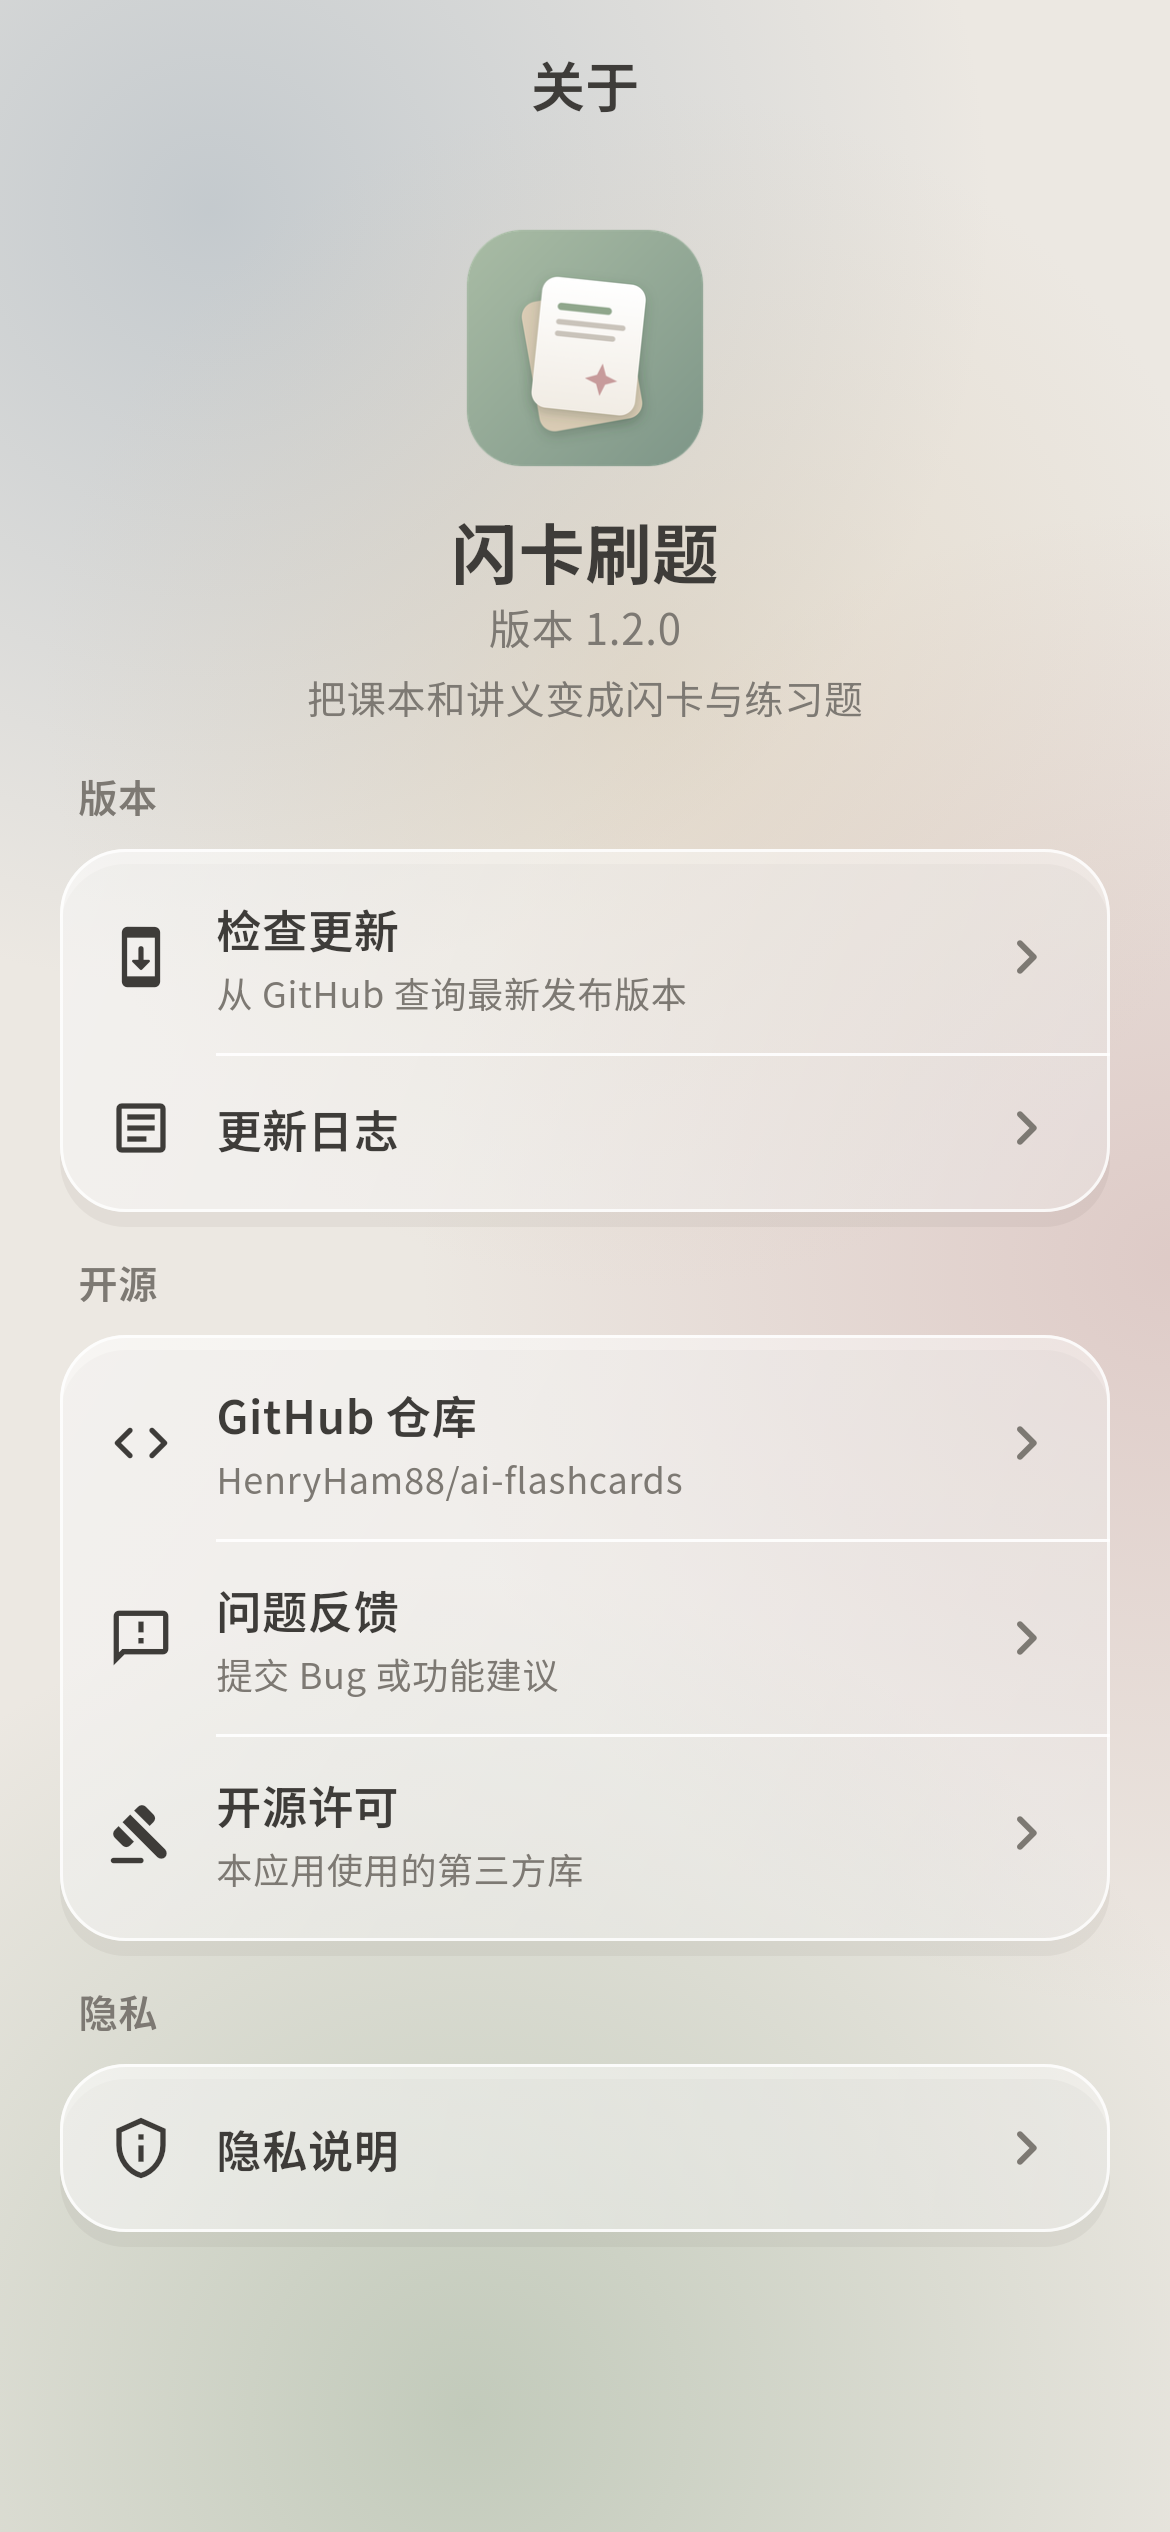
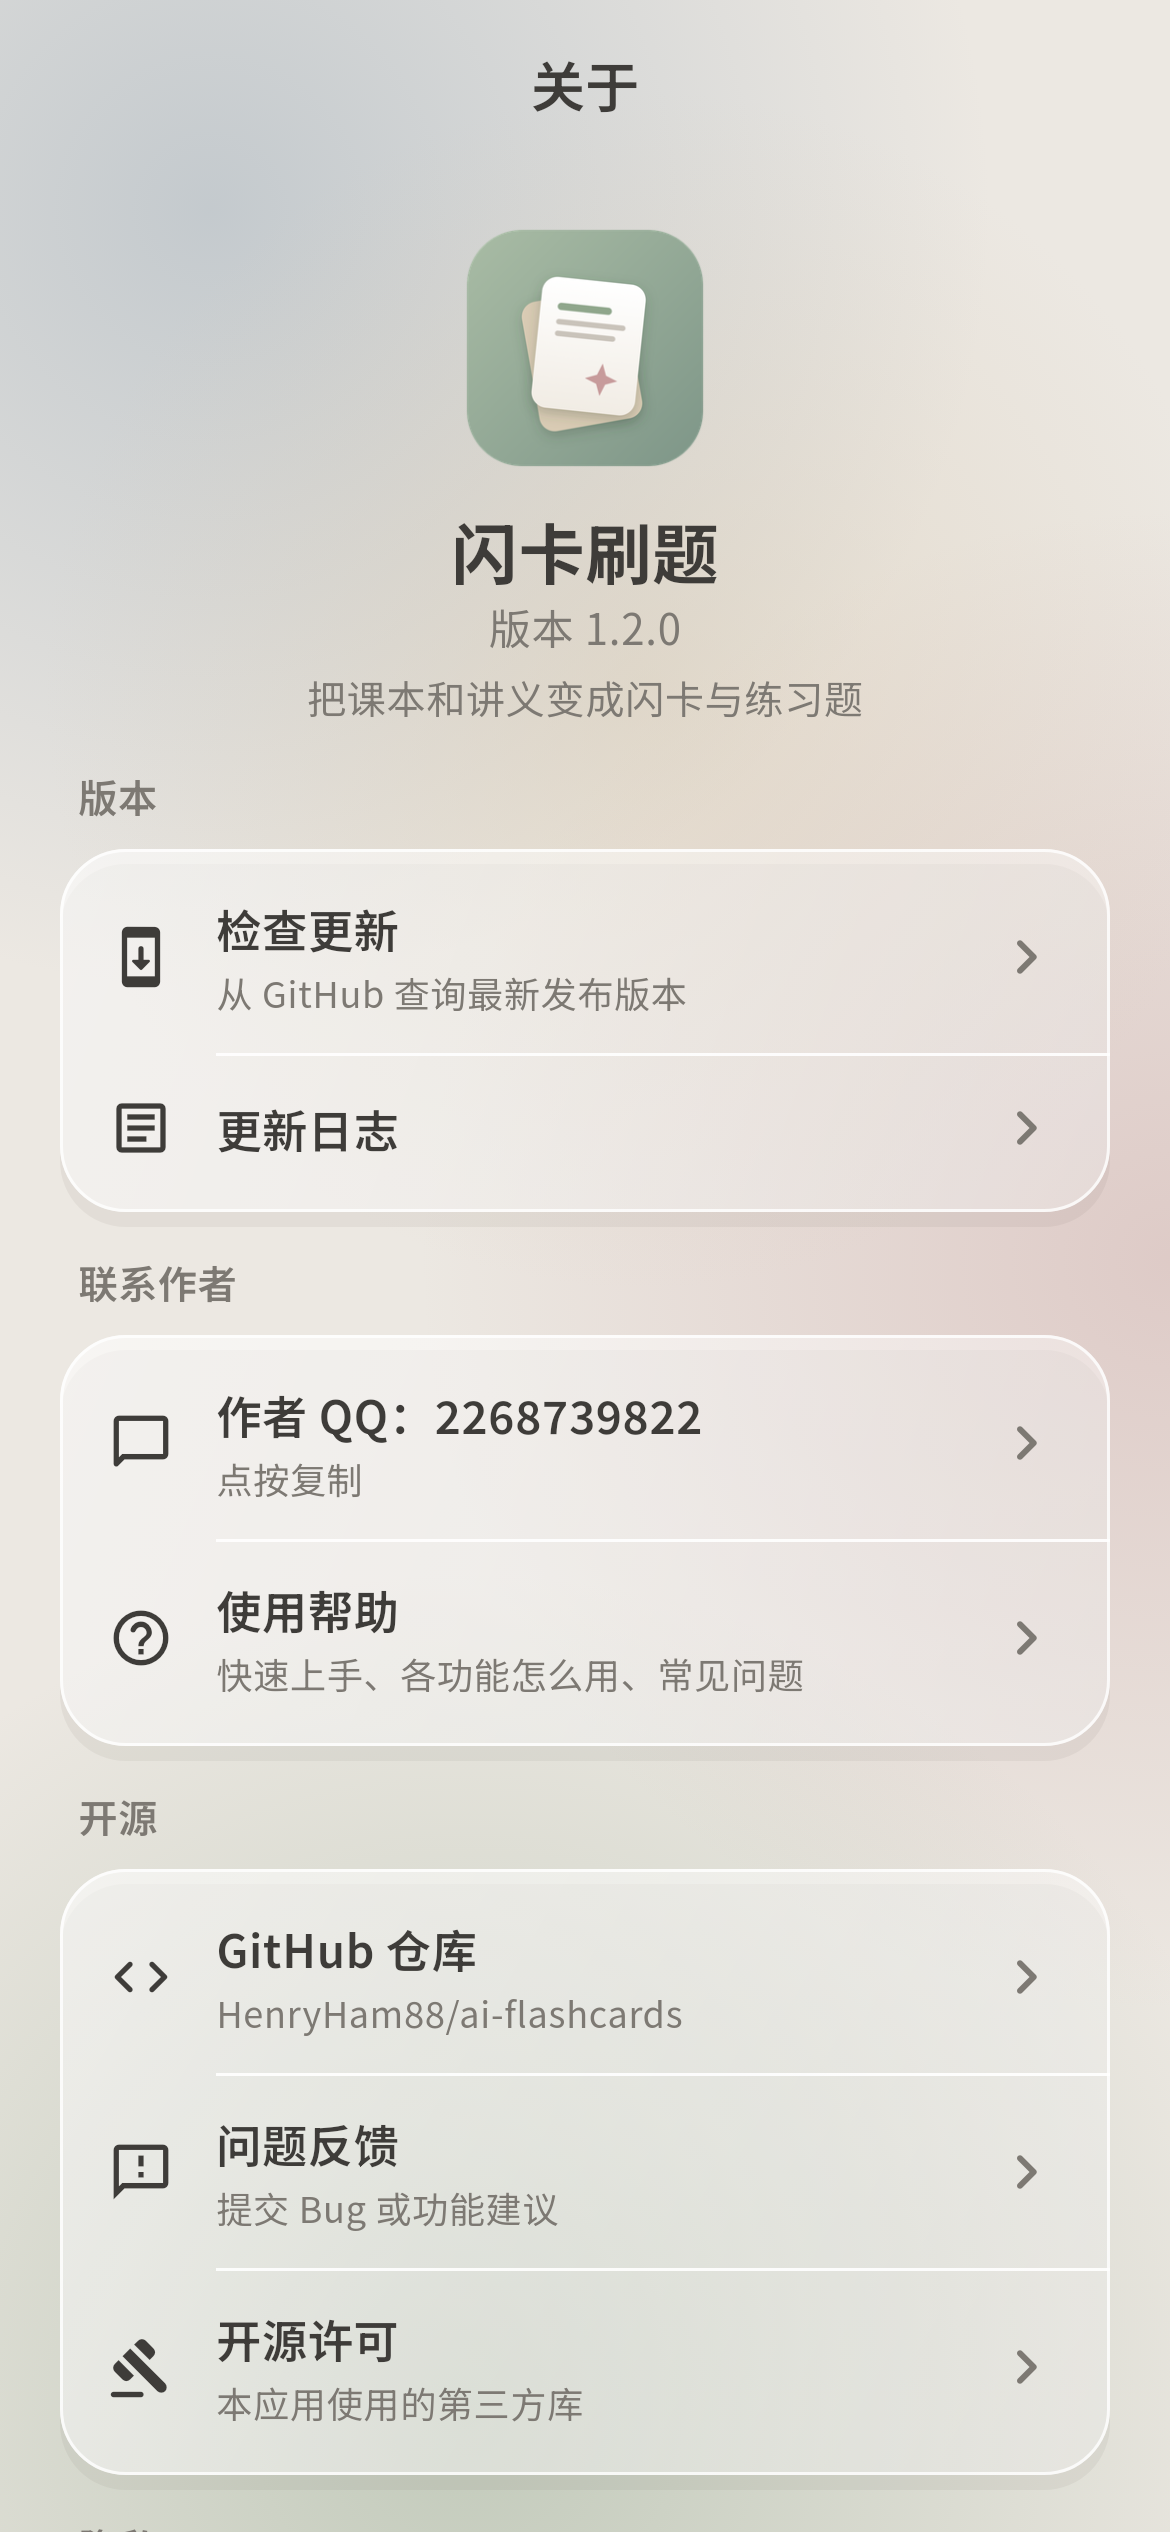
chore: v1.3.2+15 版本号、更新日志与截图

diff --git a/CHANGELOG.md b/CHANGELOG.md
@@ -6,6 +6,16 @@
 
 ## [Unreleased]
 
+## [1.3.2] - 2026-11-21
+
+### 新增
+
+- 应用内「使用帮助」：在「我的 → 使用帮助」打开，共 13 篇按场景分步的中文说明（快速开始、配置模型和密钥、上传与解析、章节、生成、质量控制、复习、做题和错题本、AI 解释历史、学习数据、备份迁移恢复、外观和提醒、常见问题），内置在应用中，离线可用。
+  - 帮助首页可搜索全部文章，按分类浏览；文章支持公式排版和上一篇 / 下一篇，适配深色模式。
+  - 出题模型、文档解析、编辑章节、生成选项和待审核页面右上角新增 **?**，直接打开对应说明；首次引导最后一页可打开使用帮助。
+  - 出题时遇到密钥未填写、无效或余额不足的提示，多了「怎么解决」按钮，打开密钥配置说明。
+- 联系作者：「关于」页和帮助中心显示作者 QQ，点按即可复制；帮助中心同时保留 GitHub 问题反馈入口。
+
 ## [1.3.1] - 2026-11-21
 
 ### 新增
@@ -97,7 +107,8 @@
 - 完整的 LaTeX 公式排版与 Markdown 格式显示。
 - 学习统计页面。
 
-[Unreleased]: https://github.com/HenryHam88/ai-flashcards/compare/v1.3.1...HEAD
+[Unreleased]: https://github.com/HenryHam88/ai-flashcards/compare/v1.3.2...HEAD
+[1.3.2]: https://github.com/HenryHam88/ai-flashcards/compare/v1.3.1...v1.3.2
 [1.3.1]: https://github.com/HenryHam88/ai-flashcards/compare/v1.3.0...v1.3.1
 [1.3.0]: https://github.com/HenryHam88/ai-flashcards/compare/v1.2.0...v1.3.0
 [1.2.0]: https://github.com/HenryHam88/ai-flashcards/compare/v1.1.9...v1.2.0

diff --git a/README.en.md b/README.en.md
@@ -48,6 +48,10 @@ AI Flashcards (闪卡刷题) is an open-source study app for Android. Import a P
     <td align="center"><img src="docs/screenshots/27_auto_count.png" width="190"><br><sub>Automatic count</sub></td>
     <td align="center"><img src="docs/screenshots/28_chapter_view.png" width="190"><br><sub>Chapter content</sub></td>
   </tr>
+  <tr>
+    <td align="center"><img src="docs/screenshots/29_help_home.png" width="190"><br><sub>In-app help</sub></td>
+    <td align="center"><img src="docs/screenshots/30_help_article.png" width="190"><br><sub>Help article</sub></td>
+  </tr>
 </table>
 
 ## Features
@@ -84,6 +88,7 @@ AI Flashcards (闪卡刷题) is an open-source study app for Android. Import a P
 **Experience**
 - Full LaTeX typesetting and Markdown formatting
 - Calm Morandi color palette with a glass-style interface, plus dark mode
+- Built-in help (我的 → 使用帮助, in Chinese): step-by-step guides for every feature plus an FAQ, searchable and available offline; the **?** button on the key, chapter editor, and generation screens opens the matching guide
 - Adjustable text and formula size; reduce motion and haptics toggles
 - Review progress is saved automatically
 

diff --git a/README.md b/README.md
@@ -45,6 +45,10 @@
     <td align="center"><img src="docs/screenshots/27_auto_count.png" width="190"><br><sub>自动数量</sub></td>
     <td align="center"><img src="docs/screenshots/28_chapter_view.png" width="190"><br><sub>章节内容</sub></td>
   </tr>
+  <tr>
+    <td align="center"><img src="docs/screenshots/29_help_home.png" width="190"><br><sub>使用帮助</sub></td>
+    <td align="center"><img src="docs/screenshots/30_help_article.png" width="190"><br><sub>帮助文章</sub></td>
+  </tr>
 </table>
 
 ## 功能
@@ -82,6 +86,7 @@
 - 完整的 LaTeX 公式排版与 Markdown 格式
 - 莫兰迪配色、玻璃质感界面，支持深色模式
 - 字体大小、公式字号可调；可减少动态效果、关闭触感反馈
+- 内置「使用帮助」（我的 → 使用帮助）：按场景分步讲解各项功能，含常见问题，可搜索，离线可用；填密钥、编辑章节、出题等页面右上角的 **?** 可直接打开对应说明
 - 复习进度自动保存，切出应用后可继续
 
 ## 下载
